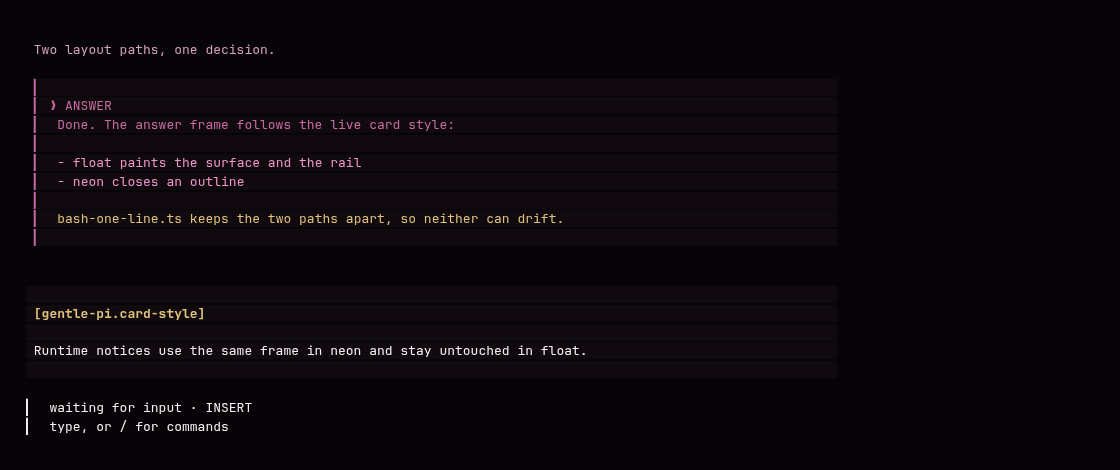
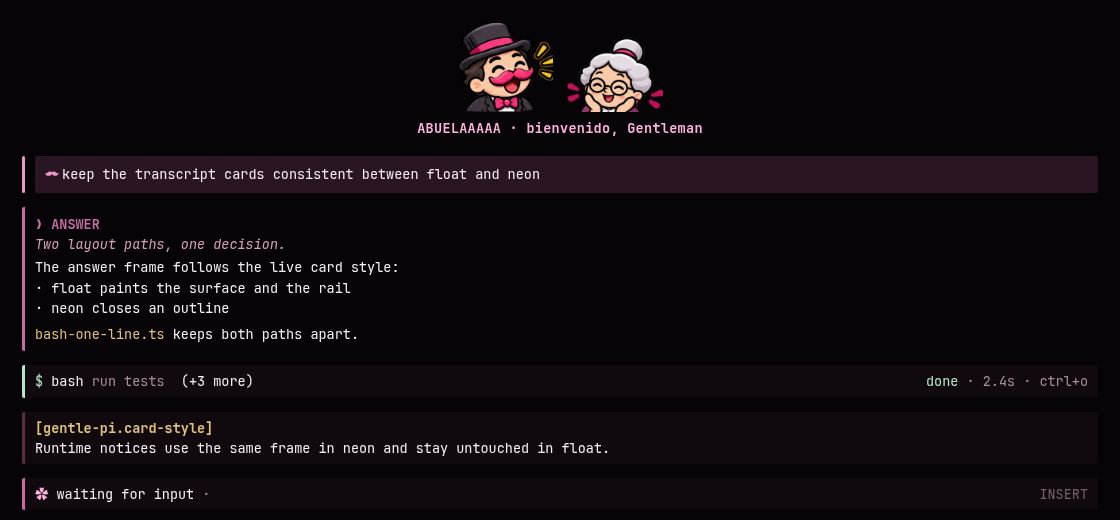
docs: richer demo with the greeting, the mustache and the theme palette

diff --git a/README.md b/README.md
@@ -4,7 +4,7 @@ Personal [Gentle Shell](https://github.com/Gentleman-Programming/gentle-shell) e
 
 ![demo](docs/demo.png)
 
-*Demo image rendered from the real components with invented text — no session data.*
+*Illustrative demo: the theme palette, the real greeting assets and the real glyphs, with invented text. No session data, no personal paths, no model or account information.*
 
 ## What each file does
 
